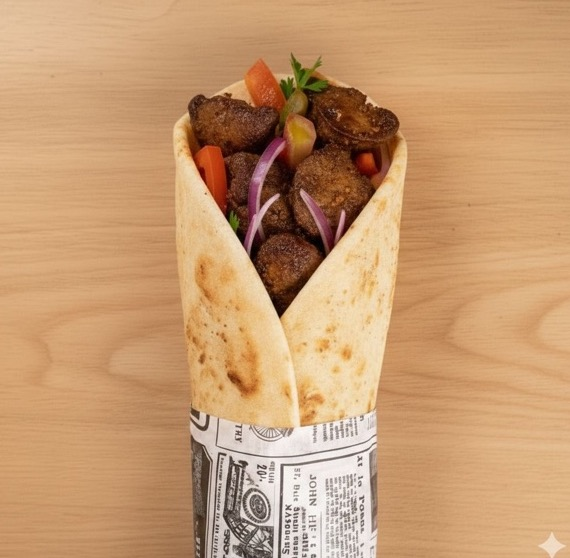
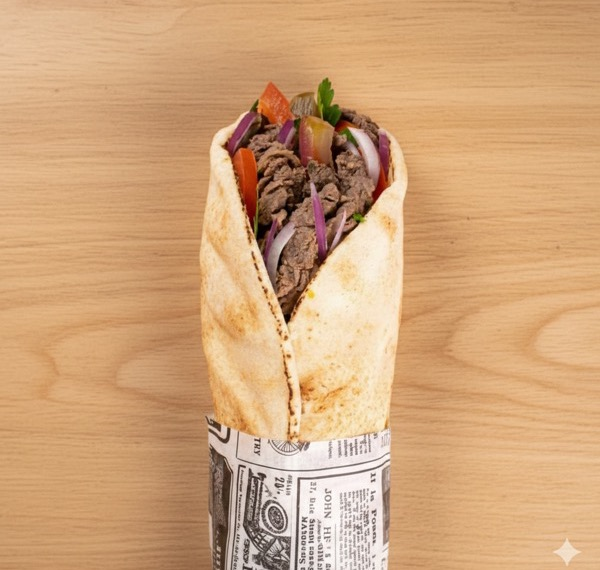
Fix images sandwichs : shawarma poulet, foie volaille, soujouk
- Nouvelle image shawarma poulet (wrap Gemini)
- Ancienne image shawarma → foie de volaille
- Ancienne image falafel → soujouk
- Falafel sandwich revient en emoji (pas d'image dédiée)

diff --git a/index.html b/index.html
@@ -454,11 +454,11 @@ const DEMO_ITEMS = [
   {id:1, categorie_id:1, nom:'Shawarma Poulet', description:'Émincé de poulet mariné, crudités, sauce maison', prix:6.90, emoji:'🌯', image_url:'img/sandwich-shawarma.jpg', disponible:true},
   {id:2, categorie_id:1, nom:'Chich Taouk', description:'Brochette de blanc de poulet mariné', prix:6.90, emoji:'🌯', disponible:true},
   {id:3, categorie_id:1, nom:'Shawarma Boeuf', description:'Émincé de boeuf mariné, crudités, sauce maison', prix:6.90, emoji:'🌯', disponible:true},
-  {id:4, categorie_id:1, nom:'Falafel', description:'Boulette de fèves et pois chiches', prix:6.90, emoji:'🧆', image_url:'img/sandwich-falafel.jpg', disponible:true},
+  {id:4, categorie_id:1, nom:'Falafel', description:'Boulette de fèves et pois chiches', prix:6.90, emoji:'🧆', disponible:true},
   {id:5, categorie_id:1, nom:'Veggie', description:'Chou fleur, aubergine, crudités', prix:6.90, emoji:'🥬', disponible:true},
-  {id:6, categorie_id:1, nom:'Foie de Volaille', description:'Mariné au citron', prix:6.90, emoji:'🍗', disponible:true},
+  {id:6, categorie_id:1, nom:'Foie de Volaille', description:'Mariné au citron', prix:6.90, emoji:'🍗', image_url:'img/sandwich-foie-volaille.jpg', disponible:true},
   {id:7, categorie_id:1, nom:'Kafta', description:'Brochette de boeuf hachée persillée', prix:6.90, emoji:'🍢', disponible:true},
-  {id:8, categorie_id:1, nom:'Soujouk', description:'Saucisses de boeuf épicées', prix:6.90, emoji:'🌭', disponible:true},
+  {id:8, categorie_id:1, nom:'Soujouk', description:'Saucisses de boeuf épicées', prix:6.90, emoji:'🌭', image_url:'img/sandwich-soujouk.jpg', disponible:true},
 
   // === FORMULES ===
   {id:10, categorie_id:2, nom:'Formule 1', description:'Sandwich + 2 feuilletés + boisson', prix:10.90, emoji:'1⃣', disponible:true},
